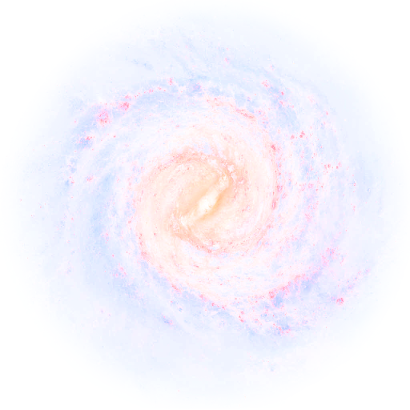
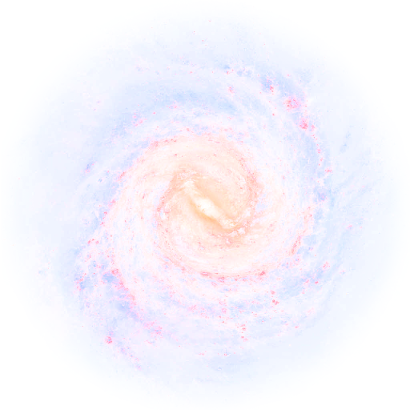
Rightly oriented milky way texture with galactic system

diff --git a/core/src/gaia/cu9/ari/gaiaorbit/scenegraph/MilkyWayReal.java b/core/src/gaia/cu9/ari/gaiaorbit/scenegraph/MilkyWayReal.java
@@ -110,7 +110,7 @@ public class MilkyWayReal extends AbstractPositionEntity implements I3DTextRende
             double[] pointf = pointData.get(i);
 
             aux.set((float) pointf[0], (float) pointf[2], (float) pointf[1]);
-            aux.scl(size).mul(coordinateSystem).add(pos3);
+            aux.scl(size).rotate(-90, 0, 1, 0).mul(coordinateSystem).add(pos3);
             pointf[0] = aux.x;
             pointf[1] = aux.y;
             pointf[2] = aux.z;
@@ -119,7 +119,7 @@ public class MilkyWayReal extends AbstractPositionEntity implements I3DTextRende
         for (int i = 0; i < nebulaData.size; i++) {
             double[] pointf = nebulaData.get(i);
             aux.set((float) pointf[0], (float) pointf[2], (float) pointf[1]);
-            aux.scl(size).mul(coordinateSystem).add(pos3);
+            aux.scl(size).rotate(-90, 0, 1, 0).mul(coordinateSystem).add(pos3);
             pointf[0] = aux.x;
             pointf[1] = aux.y;
             pointf[2] = aux.z;
